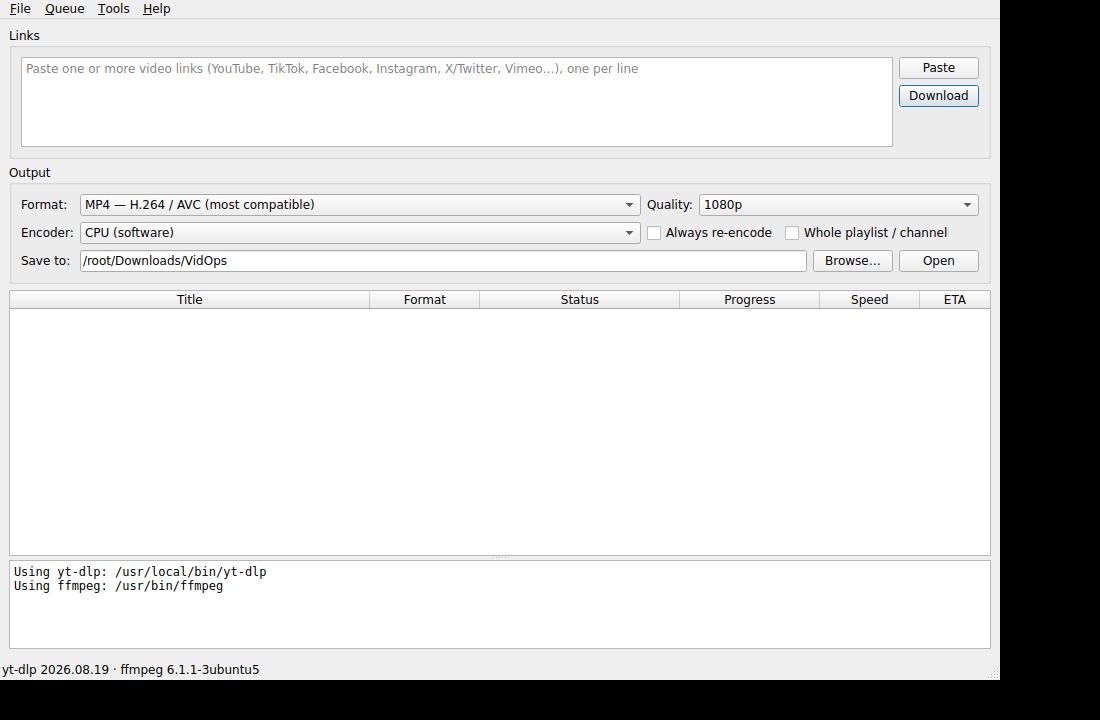
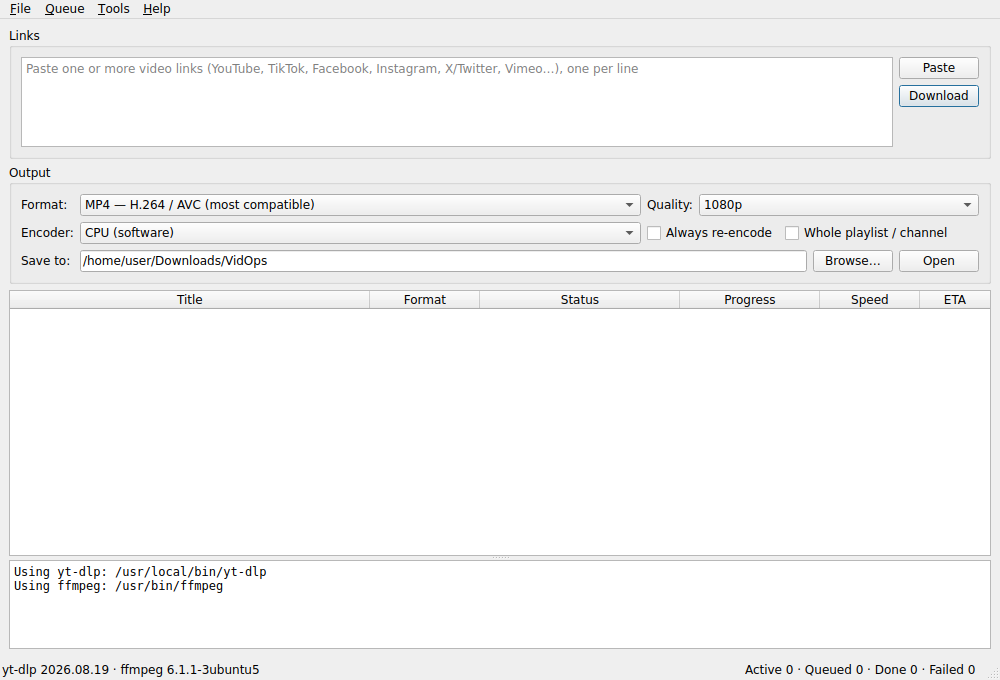
README: add screenshot
Claude-Session: https://claude.ai/code/session_01WctBttRK1a64UeW3UydrJu

diff --git a/README.md b/README.md
@@ -10,6 +10,8 @@ Under the hood it drives [yt-dlp](https://github.com/yt-dlp/yt-dlp) (site suppor
 and [FFmpeg](https://ffmpeg.org) (merging and conversion). The release packages
 bundle both, so nothing else needs to be installed.
 
+![VidOps main window](docs/screenshot.png)
+
 ## Tiếng Việt — hướng dẫn nhanh
 
 1. Tải bản build cho máy của bạn ở mục **Actions → Build → Artifacts** (hoặc **Releases** khi có tag `v*`):
